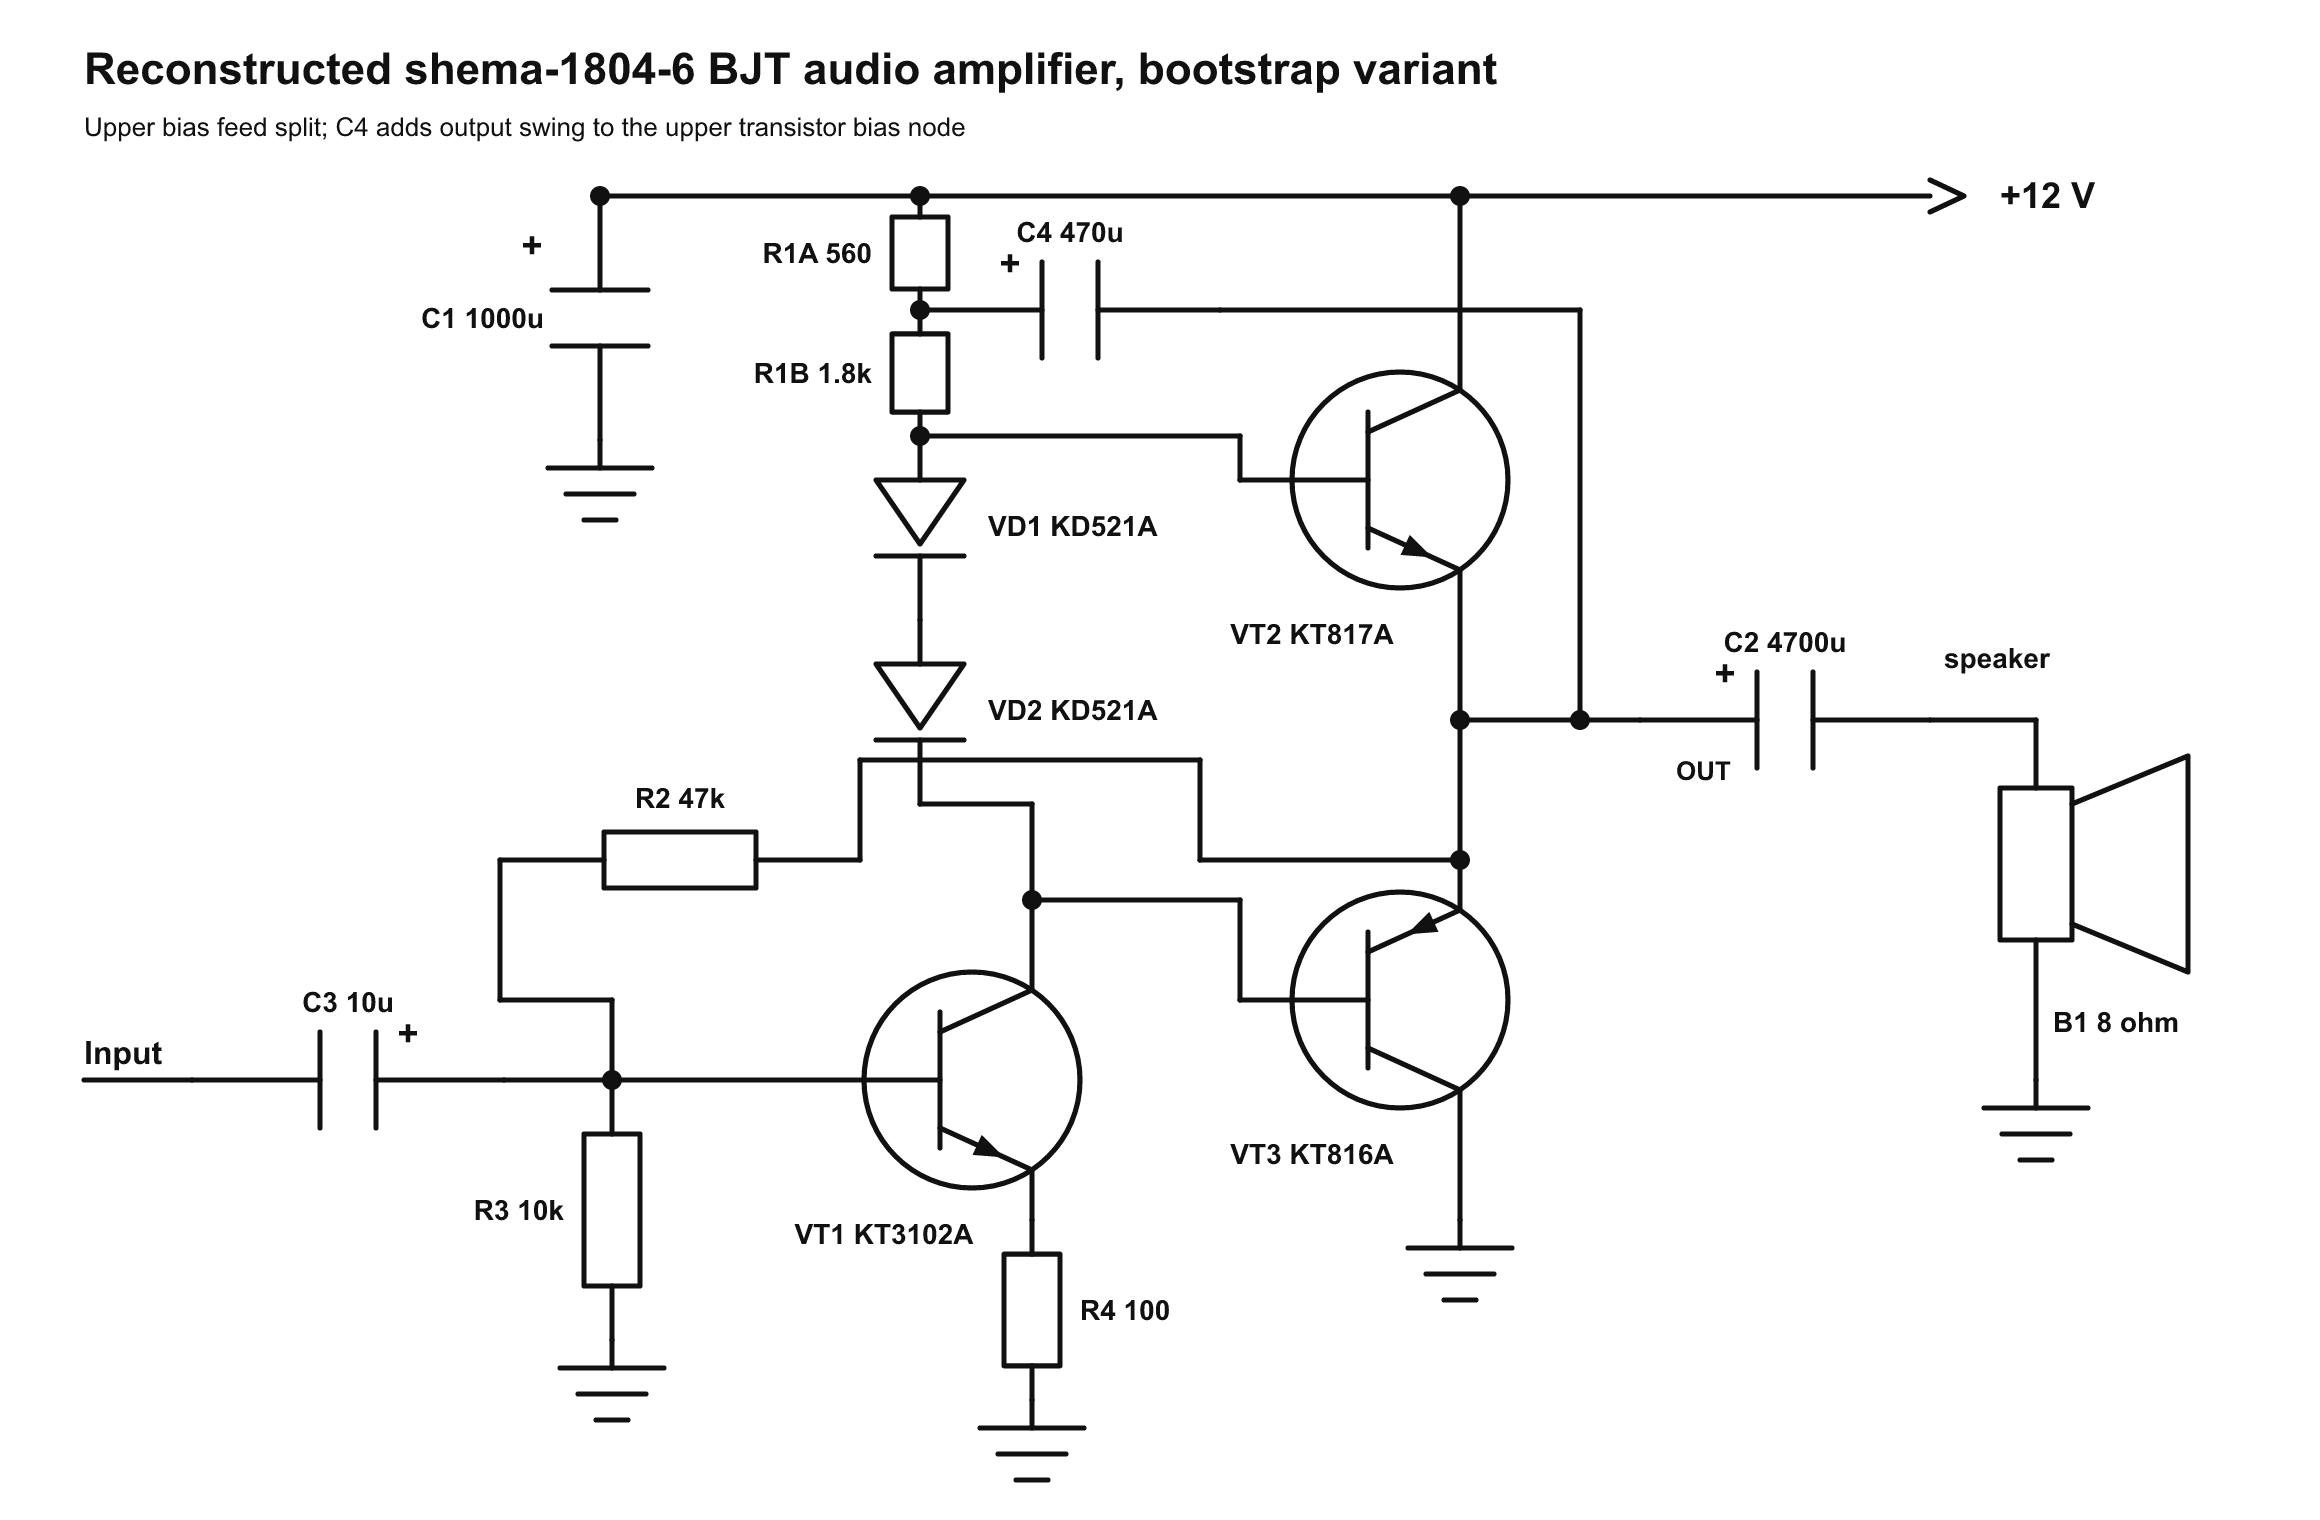
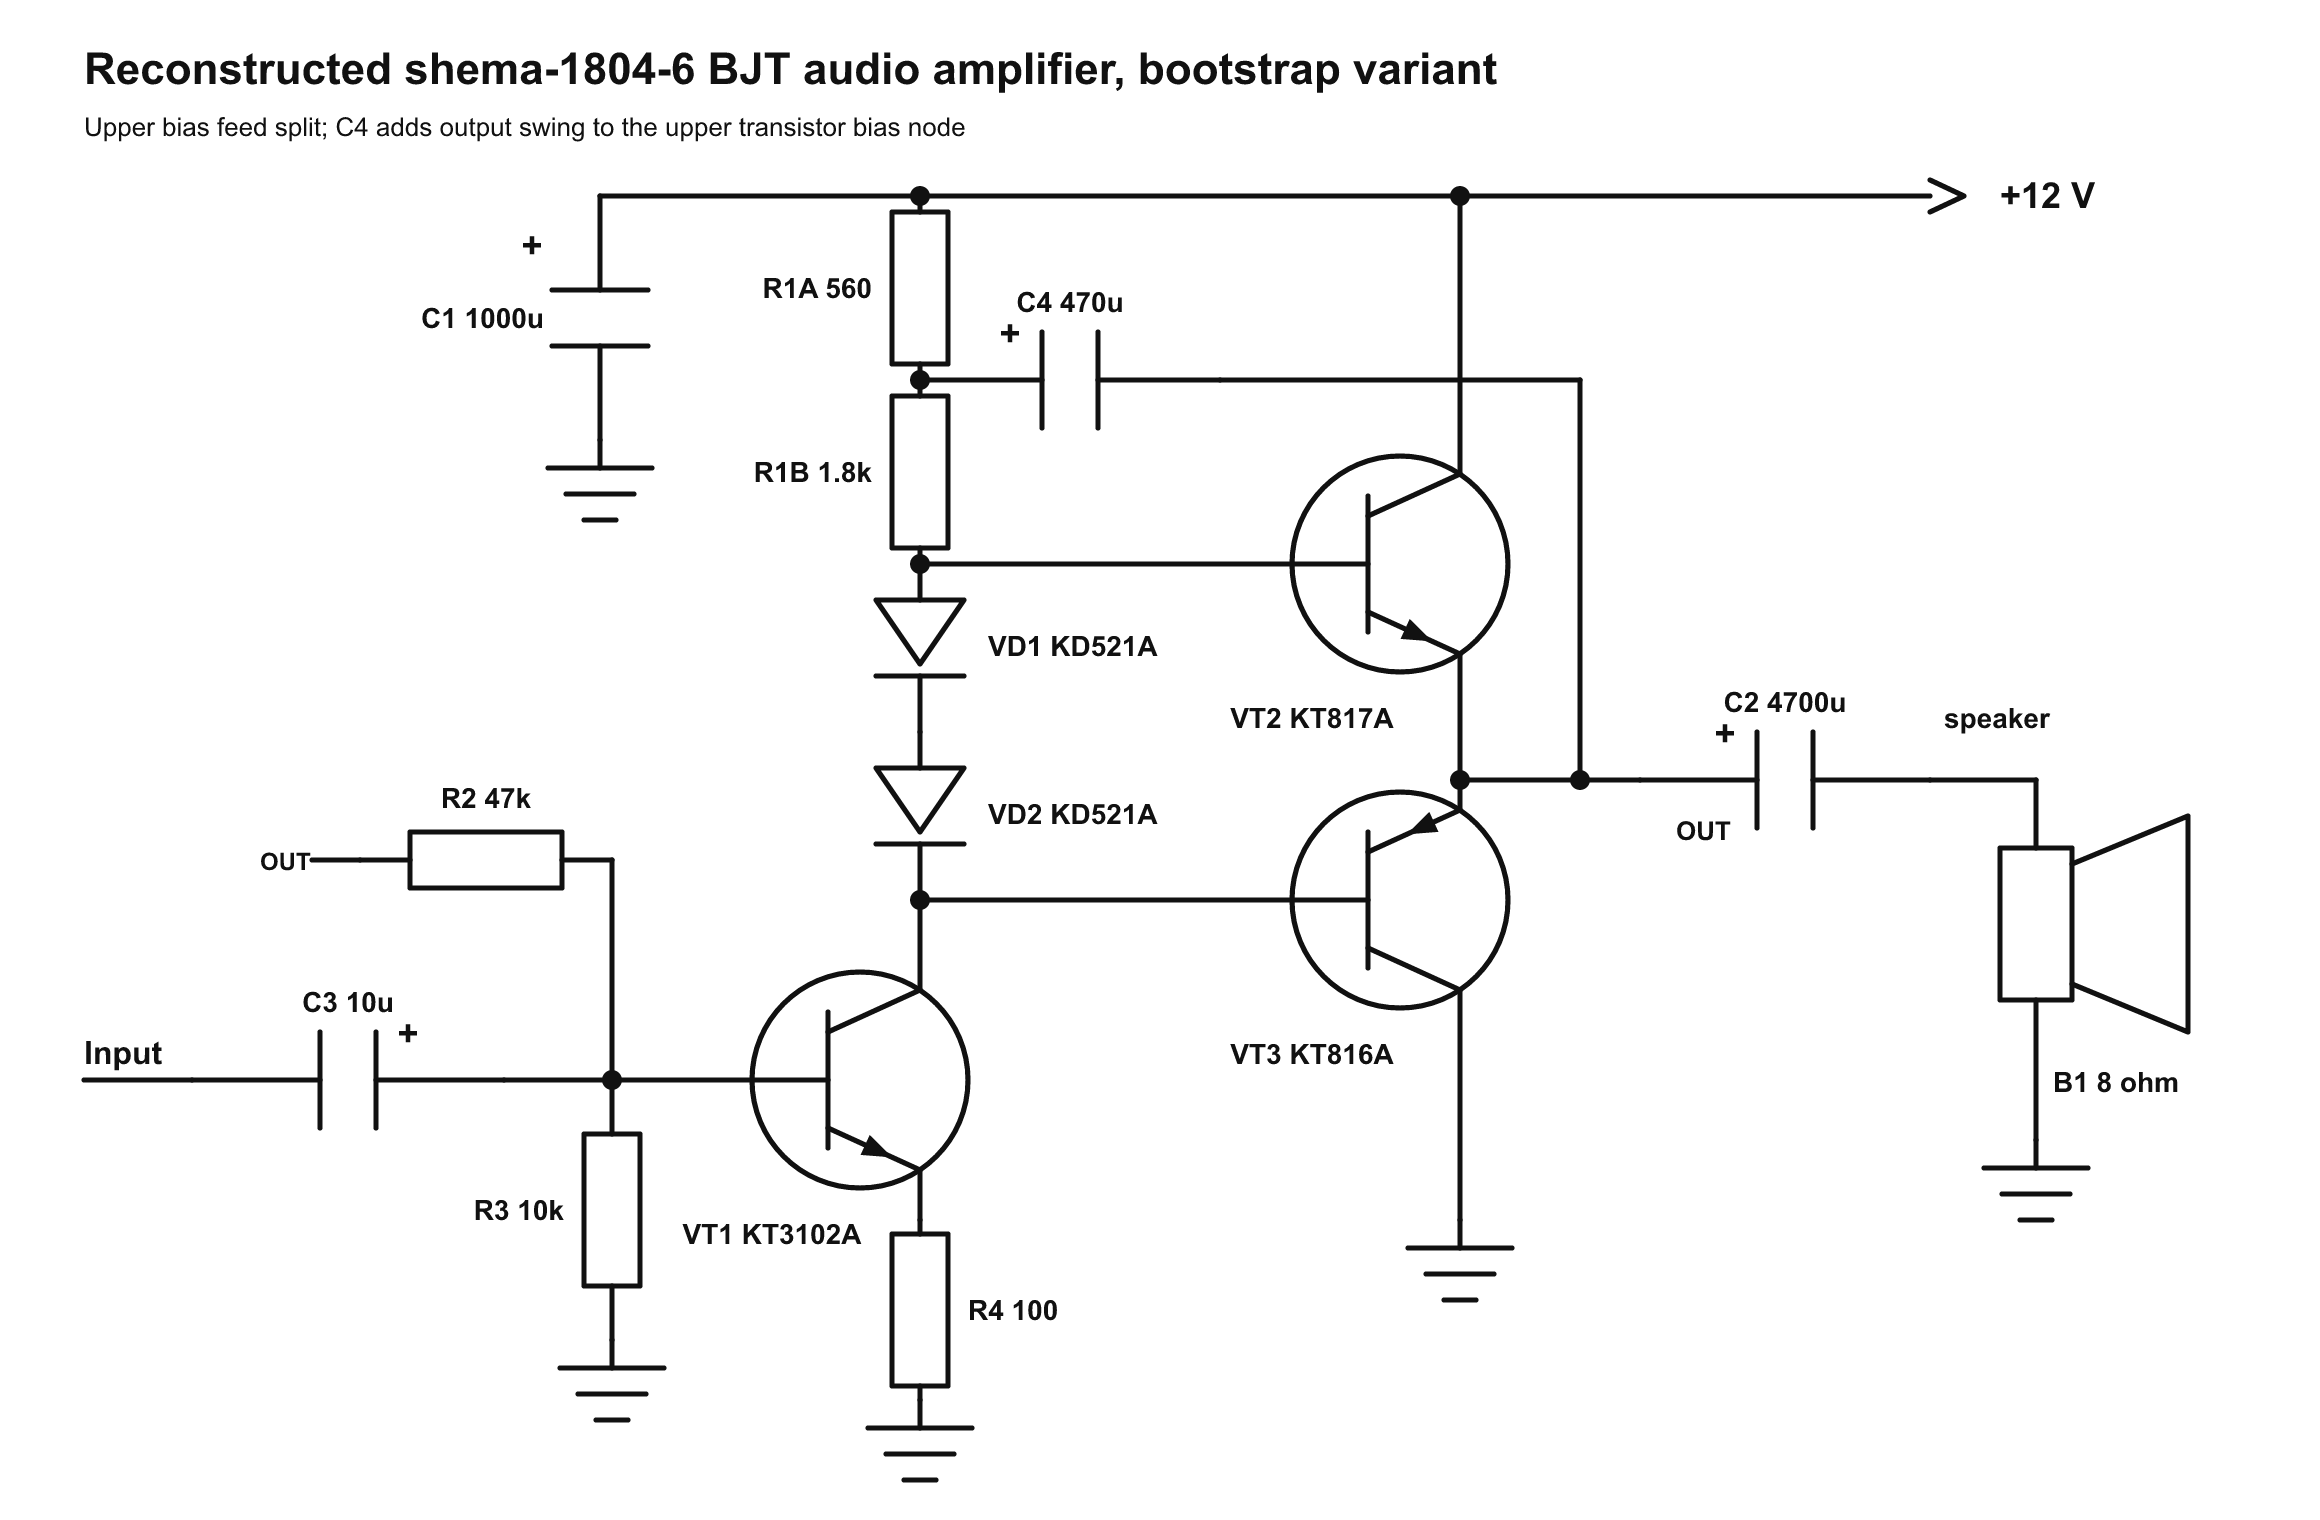
Improve schematic resistor proportions

diff --git a/results/003_radiostorage_shema_1804_6/variants/bootstrap.py b/results/003_radiostorage_shema_1804_6/variants/bootstrap.py
@@ -75,39 +75,35 @@ def bootstrap_schematic_svg() -> str:
         line(300, 98, 965, 98),
         poly([(965, 90), (982, 98), (965, 106)], "wire"),
         text(1000, 104, "+12 V", 18, 700),
-        '<circle cx="300" cy="98" r="5" class="node"/>',
         '<circle cx="460" cy="98" r="5" class="node"/>',
         '<circle cx="730" cy="98" r="5" class="node"/>',
         *capacitor_v(300, 98, 220, "C1 1000u", "left", "top"),
         *ground(300, 220),
-        *resistor_v(460, 98, 155, "R1A 560", "left"),
-        '<circle cx="460" cy="155" r="5" class="node"/>',
-        *resistor_v(460, 155, 218, "R1B 1.8k", "left"),
-        '<circle cx="460" cy="218" r="5" class="node"/>',
-        *diode_v(460, 218, 310, "VD1 KD521A"),
-        *diode_v(460, 310, 402, "VD2 KD521A"),
-        *capacitor_h(460, 155, 610, f"C4 {CBOOT_VALUE_UF:g}u", "left"),
-        line(610, 155, 790, 155),
-        line(790, 155, 790, 360),
-        *npn(700, 240, "VT2 KT817A"),
-        line(730, 195, 730, 98),
-        line(460, 218, 620, 218),
-        line(620, 218, 620, 240),
-        line(620, 240, 646, 240),
-        line(730, 285, 730, 455),
-        '<circle cx="730" cy="360" r="5" class="node"/>',
-        '<circle cx="730" cy="430" r="5" class="node"/>',
-        '<circle cx="790" cy="360" r="5" class="node"/>',
-        line(730, 360, 820, 360),
-        *pnp(700, 500, "VT3 KT816A"),
-        line(730, 545, 730, 610),
+        *resistor_v(460, 98, 190, "R1A 560", "left"),
+        '<circle cx="460" cy="190" r="5" class="node"/>',
+        *resistor_v(460, 190, 282, "R1B 1.8k", "left"),
+        '<circle cx="460" cy="282" r="5" class="node"/>',
+        *diode_v(460, 282, 366, "VD1 KD521A"),
+        *diode_v(460, 366, 450, "VD2 KD521A"),
+        *capacitor_h(460, 190, 610, f"C4 {CBOOT_VALUE_UF:g}u", "left"),
+        line(610, 190, 790, 190),
+        line(790, 190, 790, 390),
+        *npn(700, 282, "VT2 KT817A"),
+        line(730, 237, 730, 98),
+        line(460, 282, 646, 282),
+        line(730, 327, 730, 405),
+        '<circle cx="730" cy="390" r="5" class="node"/>',
+        '<circle cx="790" cy="390" r="5" class="node"/>',
+        line(730, 390, 820, 390),
+        *pnp(700, 450, "VT3 KT816A"),
+        line(730, 495, 730, 610),
         *ground(730, 610),
-        text(838, 390, "OUT", 13, 700),
-        *capacitor_h(820, 360, 965, f"C2 {C2_VALUE_UF:g}u", "left"),
-        line(965, 360, 1018, 360),
-        *speaker_v(1018, 360, 540, "B1 8 ohm"),
-        *ground(1018, 540),
-        text(972, 334, "speaker", 14, 700),
+        text(838, 420, "OUT", 13, 700),
+        *capacitor_h(820, 390, 965, f"C2 {C2_VALUE_UF:g}u", "left"),
+        line(965, 390, 1018, 390),
+        *speaker_v(1018, 390, 570, "B1 8 ohm"),
+        *ground(1018, 570),
+        text(972, 364, "speaker", 14, 700),
         text(42, 532, "Input", 16, 700),
         line(42, 540, 96, 540),
         *capacitor_h(96, 540, 252, "C3 10u", "right"),
@@ -115,25 +111,18 @@ def bootstrap_schematic_svg() -> str:
         '<circle cx="306" cy="540" r="5" class="node"/>',
         *resistor_v(306, 540, 670, "R3 10k", "left"),
         *ground(306, 670),
-        *npn(486, 540, "VT1 KT3102A"),
-        line(306, 540, 432, 540),
-        line(460, 402, 516, 402),
-        line(516, 402, 516, 495),
-        '<circle cx="516" cy="450" r="5" class="node"/>',
-        line(516, 450, 620, 450),
-        line(620, 450, 620, 500),
-        line(620, 500, 646, 500),
-        line(516, 585, 516, 610),
-        *resistor_v(516, 610, 700, "R4 100", "right"),
-        *ground(516, 700),
-        *resistor_h(250, 430, 430, "R2 47k"),
-        line(250, 430, 250, 500),
-        line(250, 500, 306, 500),
-        line(306, 500, 306, 540),
-        line(430, 430, 430, 380),
-        line(430, 380, 600, 380),
-        line(600, 380, 600, 430),
-        line(600, 430, 730, 430),
+        *npn(430, 540, "VT1 KT3102A"),
+        line(306, 540, 376, 540),
+        line(460, 450, 460, 495),
+        '<circle cx="460" cy="450" r="5" class="node"/>',
+        line(460, 450, 646, 450),
+        line(460, 585, 460, 610),
+        *resistor_v(460, 610, 700, "R4 100", "right"),
+        *ground(460, 700),
+        *resistor_h(180, 430, 306, "R2 47k"),
+        line(156, 430, 180, 430),
+        text(130, 435, "OUT", 12, 700),
+        line(306, 430, 306, 540),
     ]
     return base_svg(1160, 760, body)
 

diff --git a/scripts/circuitlib/svg.py b/scripts/circuitlib/svg.py
@@ -61,7 +61,7 @@ def base_svg(width: int, height: int, body: list[str]) -> str:
 
 def resistor_h(x1: float, y: float, x2: float, label: str) -> list[str]:
     w = x2 - x1
-    body_w = min(76.0, max(48.0, w * 0.56))
+    body_w = 76.0
     left = x1 + (w - body_w) / 2.0
     right = left + body_w
     body_h = 28.0
@@ -75,7 +75,7 @@ def resistor_h(x1: float, y: float, x2: float, label: str) -> list[str]:
 
 def resistor_v(x: float, y1: float, y2: float, label: str, side: str = "right") -> list[str]:
     h = y2 - y1
-    body_h = min(76.0, max(36.0, h * 0.62))
+    body_h = 76.0
     top = y1 + (h - body_h) / 2.0
     bottom = top + body_h
     body_w = 28.0

diff --git a/docs/schematic_drawing_rules.md b/docs/schematic_drawing_rules.md
@@ -19,6 +19,7 @@ Use these standards as the baseline when drawing Russian-style radio schematics:
 - Use standardized UGO families consistently: resistors and capacitors from `GOST 2.728-74`, semiconductor devices from `GOST 2.730-73`, and grounding/connection/common marks from `GOST 2.721-74`.
 - Keep component symbols in fixed proportions. Do not stretch parts horizontally or vertically to solve layout problems.
 - Draw resistors as rectangles, not zig-zags.
+- Keep resistor UGO rectangles at a consistent aspect ratio; move neighboring parts or enlarge the schematic instead of compressing a resistor body.
 - Draw electrolytic capacitors as capacitor plates plus a separate polarity mark.
 - Draw bipolar transistors with clear NPN/PNP arrows. The arrow must stay inside the transistor circle and be visually symmetric around the emitter line.
 - Use a speaker symbol for a real loudspeaker load, not just a resistor box, when the load is meant to be a speaker.
@@ -30,6 +31,7 @@ Use these standards as the baseline when drawing Russian-style radio schematics:
 - Prefer vertical and horizontal conductors.
 - Use diagonal conductors only where the established schematic shape expects them, or where an orthogonal route would be less readable.
 - Avoid unnecessary bends. Each bend should route around a component, avoid a label, or align with a meaningful net path.
+- Avoid compact nested hook shapes at junctions or crossings. If a route starts to look like a folded symbol, redraw it as a plain vertical/horizontal trunk with one clear T-connection.
 - Keep a visible straight lead before each bend at a component terminal. Do not turn a wire immediately next to a component body or symbol outline.
 - Avoid crossing components, wires, and labels. Rearrange the schematic before accepting an ambiguous crossing.
 - Leave readable clearance around component bodies, transistor circles, labels, polarity marks, and node dots.